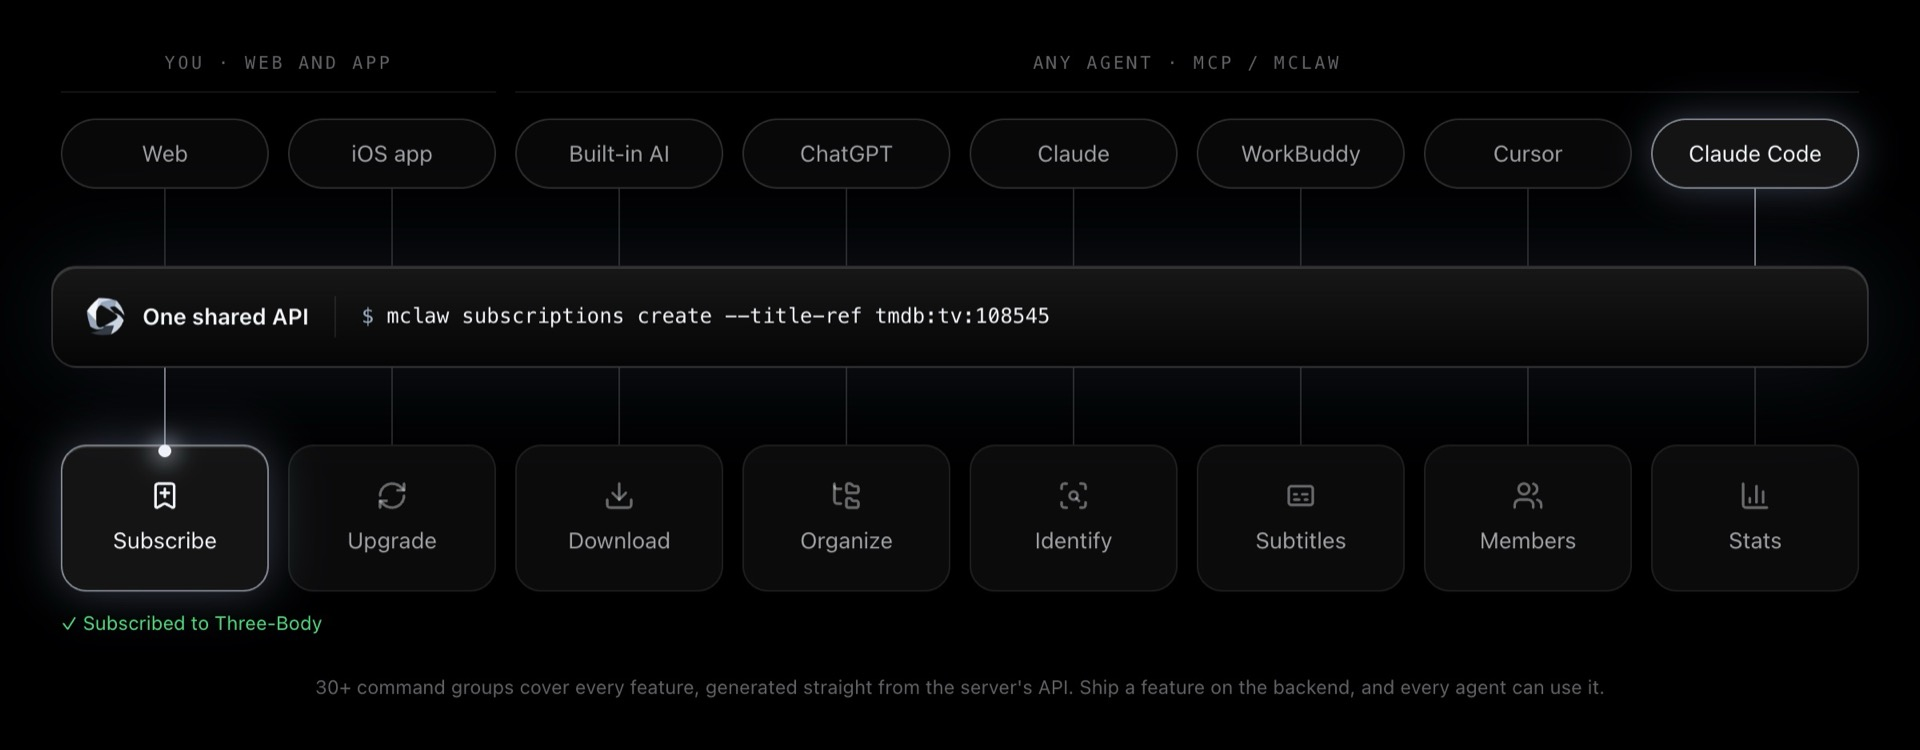
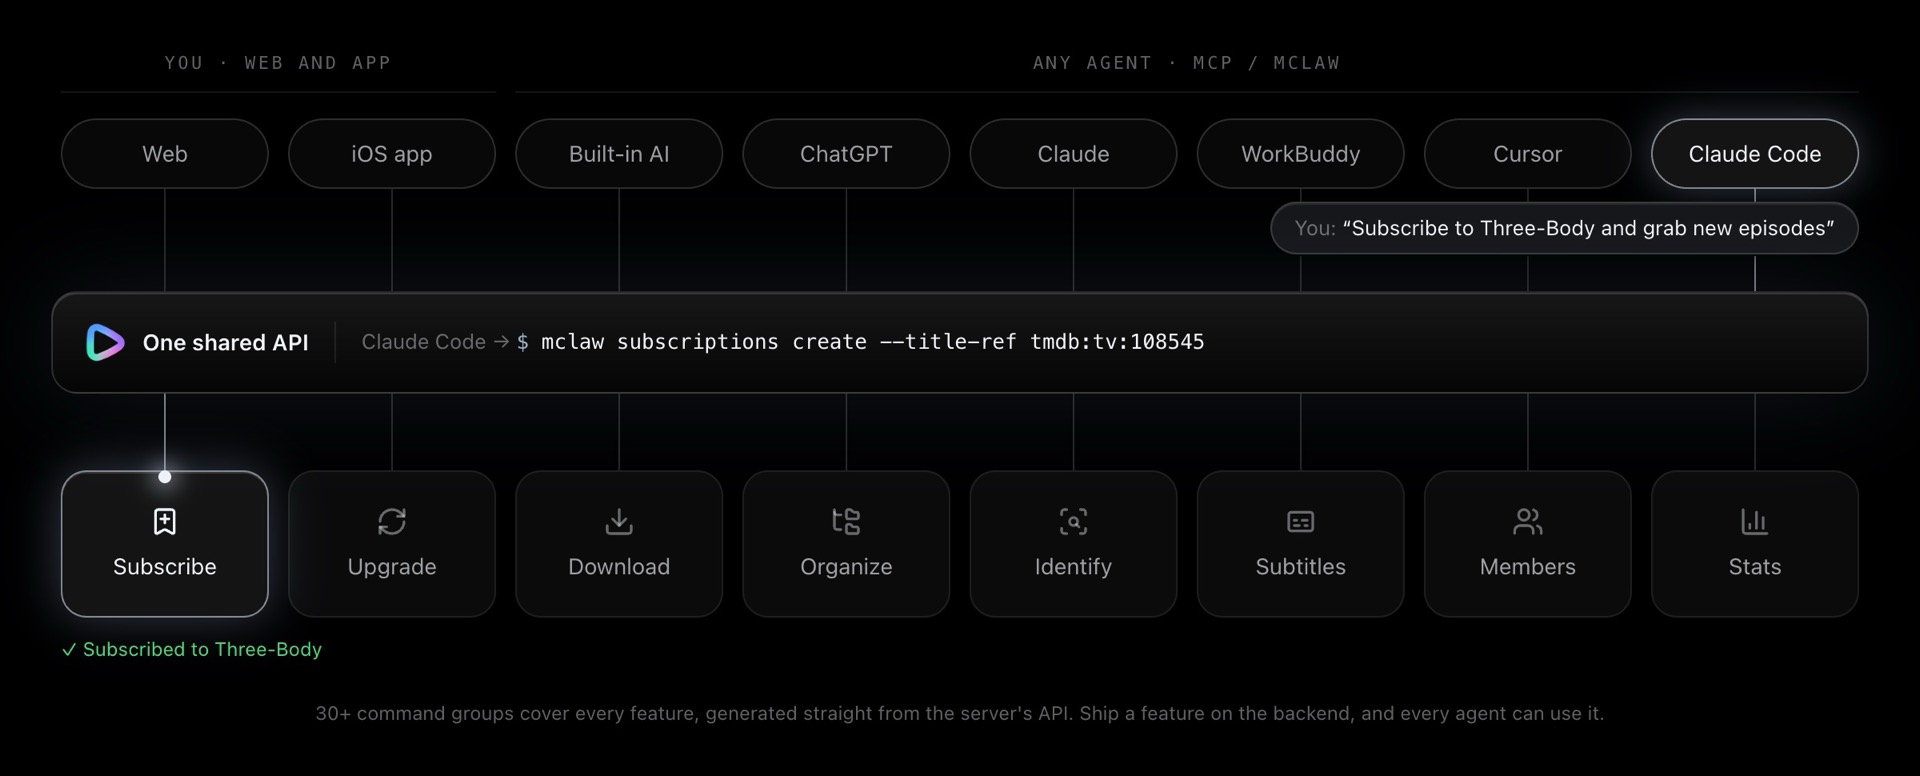
docs(readme): 顶部换成星空横幅，场景标题与 Agent 架构图更新
- README 顶部：明暗双版 logo + 标语换成一张横幅（banner.zh / banner.en），
  和官网分享卡片同一版式，用新的极光标志；横幅自带深色底，GitHub 明暗主题都能用
- 场景一节的标题改为「这才是私人影音库该有的样子」/ "This is what a personal media library should feel like"
- Agent 架构图重截：画面先是你对 Agent 说的一句话，再是 Agent 选用的 mclaw 命令，
  不再像是要在 ChatGPT 里敲命令
- docs/brand/README.md、docs/design/readme-rewrite.md 同步记录

diff --git a/docs/brand/README.md b/docs/brand/README.md
@@ -37,7 +37,7 @@
 | iOS | `apps/apple/MovieClaw/Assets.xcassets/AppIcon.appiconset/`：默认（不透明）、深色（透明底）、着色（灰阶）三种外观 | 直接替换三张 1024 PNG |
 | macOS 转码器 | `macos/MovieClawTranscoder/Sources/MovieClawTranscoder/BrandMark.swift`（矢量轮廓）→ `Resources/AppIcon.icns` | 改 `BrandMark.swift` 后跑 `scripts/render-app-icon.sh` |
 | 浏览器扩展 | `apps/extension/public/icon/{16,32,48,128}.png`（WXT 自动写进 manifest） | 从 `masters/favicon-1024.png` 缩放 |
-| README | `docs/images/logo-dark.png` / `logo-light.png` | 横版组合，宽 720 |
+| README | 顶部横幅 `docs/images/banner.{zh,en}.jpg`（和官网分享卡片同一版式，2400×1260，自带深色底，GitHub 明暗主题都能用）；`docs/images/logo-dark.png` / `logo-light.png` 是横版组合（宽 720），README 已不再引用 | 换标志后照官网分享卡片的版式重出横幅 |
 
 完整的品牌资产包（含 Icon Composer 分层、各平台全套尺寸、社交头像、分享卡片）由仓库外的
 `movieclaw-logo-lab/build_brand_kit.py` 生成，本目录只放仓库里实际要用到的源文件和母版。

diff --git a/README.md b/README.md
@@ -1,11 +1,6 @@
 <p align="center">
-  <picture>
-    <source media="(prefers-color-scheme: dark)" srcset="docs/images/logo-dark.png">
-    <img alt="MovieClaw" src="docs/images/logo-light.png" width="360">
-  </picture>
+  <img src="docs/images/banner.en.jpg" width="900" alt="MovieClaw: the next-gen AI media server">
 </p>
-
-<h3 align="center">The next-gen AI media server</h3>
 
 <p align="center">
   One server replaces your entire media stack.<br>
@@ -161,7 +156,7 @@ handful of services.
 - Health check: dry-runs every step of the chain (trackers, download client, library) so you can spot where it would get stuck.
 - Just joined a private tracker and need to protect your ratio? Turn on site protection: subscriptions steer around that site while manual search still works, so you can build up your ratio before opening it up.
 
-## Here's what your day looks like
+## This is what a personal media library should feel like
 
 <table>
   <tr>

diff --git a/README.zh-CN.md b/README.zh-CN.md
@@ -1,11 +1,6 @@
 <p align="center">
-  <picture>
-    <source media="(prefers-color-scheme: dark)" srcset="docs/images/logo-dark.png">
-    <img alt="MovieClaw" src="docs/images/logo-light.png" width="360">
-  </picture>
+  <img src="docs/images/banner.zh.jpg" width="900" alt="MovieClaw：下一代智能影音服务器">
 </p>
-
-<h3 align="center">下一代智能影音服务器</h3>
 
 <p align="center">
   一个 MovieClaw，替代一整套影音工具。<br>
@@ -130,7 +125,7 @@ MovieClaw 把一个自主的通用 Agent 装进了影音服务器。打理片库
 - 链路体检：逐站预演资源站点、下载器、媒体库，哪一步会卡住一眼看到。
 - 新站先养着：打开站点保护，订阅链路绕开这个站，手动搜索不受影响，配合刷流把分享率养起来再放开。
 
-## 装好之后，日子是这样的
+## 这才是私人影音库该有的样子
 
 <table>
   <tr>
